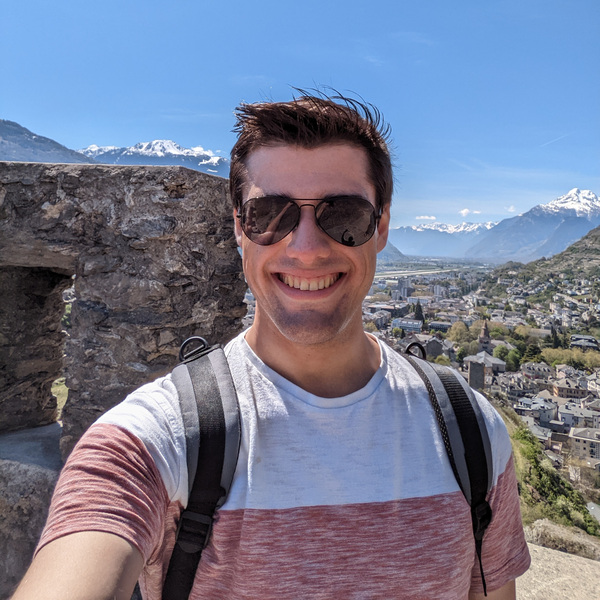
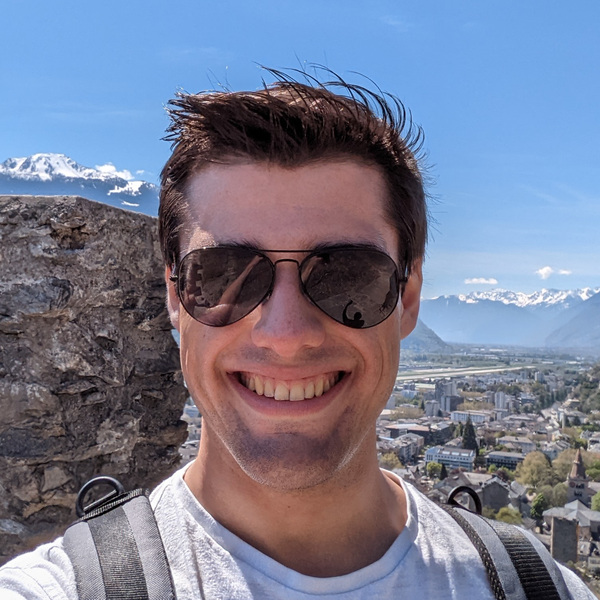
Updated default conclusions slide

diff --git a/will_handley.tex b/will_handley.tex
@@ -36,20 +36,19 @@
     \framesubtitle{\tthref{github.com/handley-lab}}
     \tikz[overlay,remember picture]
         \node[anchor=north east] (A) at ($(current page.north east)+(0,0)$) {
-        \includegraphics[width=0.09\textheight]{figures/students/adam_ormondroyd.jpg}%
-        \includegraphics[width=0.09\textheight]{figures/students/charlotte_priestley.jpg}%
-        \includegraphics[width=0.09\textheight]{figures/students/david_yallup.jpg}%
-        \includegraphics[width=0.09\textheight]{figures/students/dily_ong.jpg}%
-        \includegraphics[width=0.09\textheight]{figures/students/george_carter.jpg}%
-        \includegraphics[width=0.09\textheight]{figures/students/harry_bevins.jpg}%
-        \includegraphics[width=0.09\textheight]{figures/students/ian_roque.jpg}%
-        \includegraphics[width=0.09\textheight]{figures/students/kilian_scheutwinkel.jpg}%
-        \includegraphics[width=0.09\textheight]{figures/students/metha_prathaban.jpg}%
-        \includegraphics[width=0.09\textheight]{figures/students/namu_kroupa.jpg}%
-        \includegraphics[width=0.09\textheight]{figures/students/sinah_legner.jpg}%
-        \includegraphics[width=0.09\textheight]{figures/students/sam_leeney.jpg}%
-        \includegraphics[width=0.09\textheight]{figures/students/thomas_gessey-jones.jpg}%
-        \includegraphics[width=0.09\textheight]{figures/students/wei-ning_deng.jpg}%
+        \includegraphics[width=0.10\textheight]{figures/students/adam_ormondroyd.jpg}%
+        \includegraphics[width=0.10\textheight]{figures/students/charlotte_priestley.jpg}%
+        \includegraphics[width=0.10\textheight]{figures/students/david_yallup.jpg}%
+        \includegraphics[width=0.10\textheight]{figures/students/dily_ong.jpg}%
+        \includegraphics[width=0.10\textheight]{figures/students/george_carter.jpg}%
+        \includegraphics[width=0.10\textheight]{figures/students/harry_bevins.jpg}%
+        \includegraphics[width=0.10\textheight]{figures/students/kilian_scheutwinkel.jpg}%
+        \includegraphics[width=0.10\textheight]{figures/students/metha_prathaban.jpg}%
+        \includegraphics[width=0.10\textheight]{figures/students/namu_kroupa.jpg}%
+        \includegraphics[width=0.10\textheight]{figures/students/sinah_legner.jpg}%
+        \includegraphics[width=0.10\textheight]{figures/students/sam_leeney.jpg}%
+        \includegraphics[width=0.10\textheight]{figures/students/wei-ning_deng.jpg}%
+        \includegraphics[width=0.10\textheight]{figures/students/will_handley.jpg}%
     };
 \end{frame}
 
